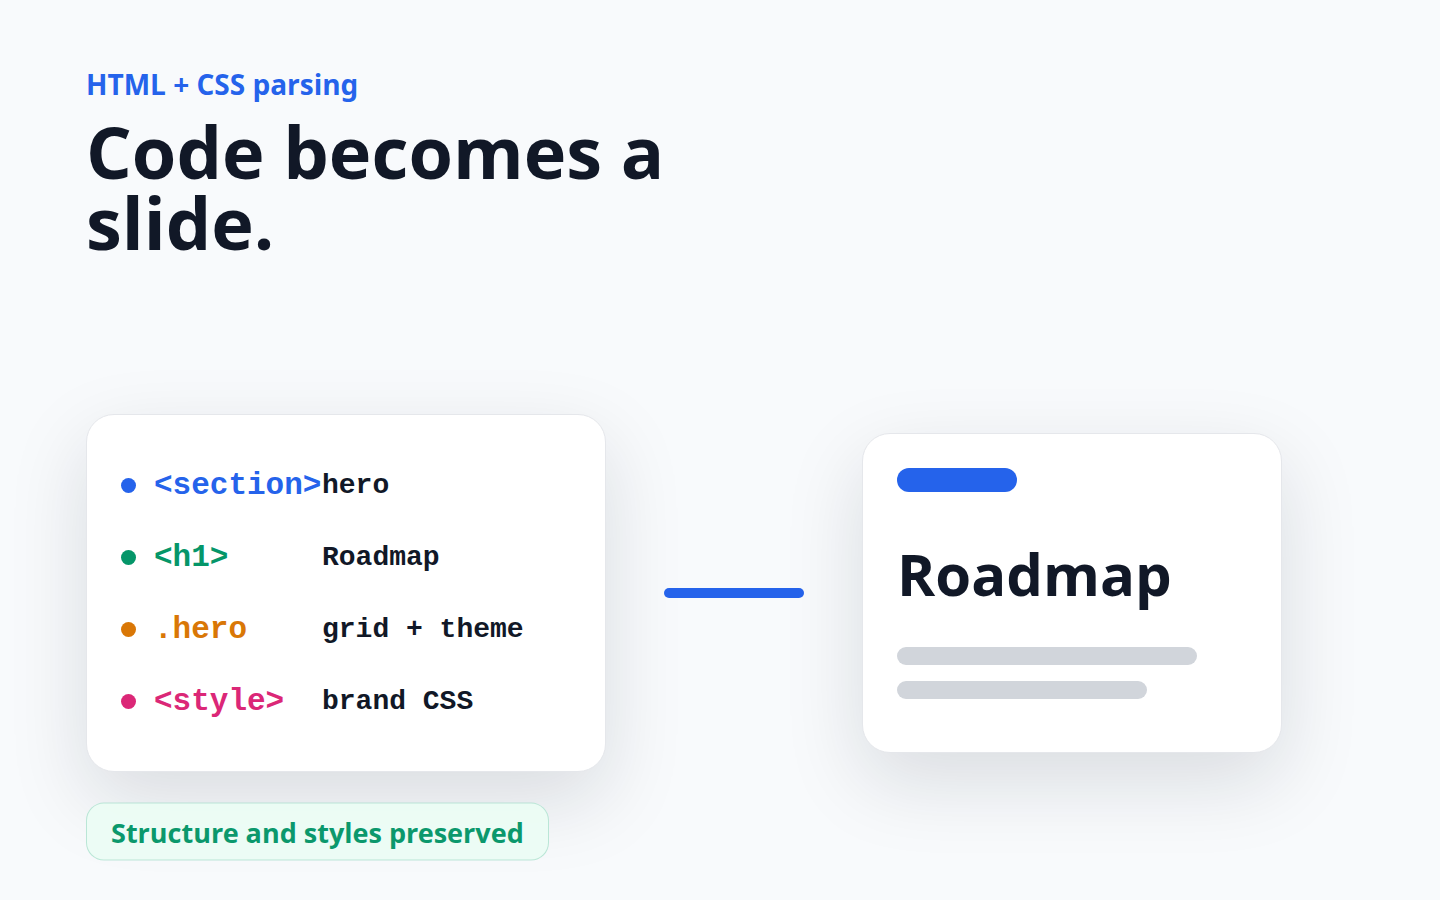
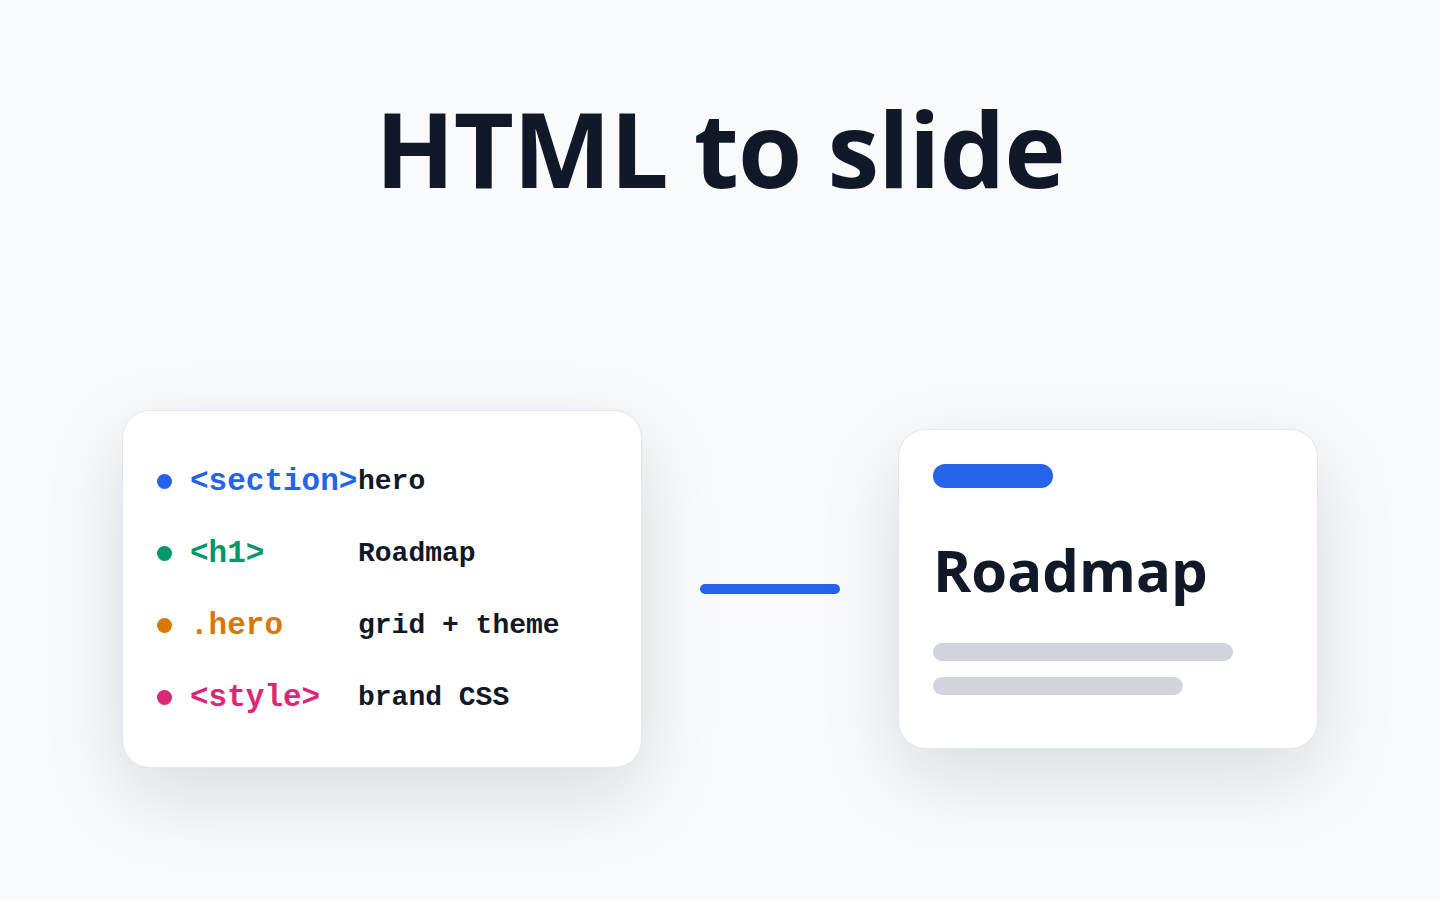
fix landing page

diff --git a/components/WorkflowSwitcher.tsx b/components/WorkflowSwitcher.tsx
@@ -1,0 +1,93 @@
+"use client";
+
+import { useState } from "react";
+
+const STEPS = [
+  {
+    n: 1,
+    label: "Prompt the LLM",
+    description: "Open the prompt, copy it, and paste it into ChatGPT.",
+    video: "/videos/workflow-step-1.mp4",
+    poster: "/videos/workflow-step-1-poster.png",
+    aria:
+      "Open the prompt, copy it, and paste it into ChatGPT to generate HTML.",
+  },
+  {
+    n: 2,
+    label: "HTML into a slide",
+    description: "Paste the HTML reply into Pasteboard to get a live slide.",
+    video: "/videos/workflow-step-2.mp4",
+    poster: "/videos/workflow-step-2-poster.png",
+    aria: "Pasted HTML is parsed into a single editable slide in Pasteboard.",
+  },
+] as const;
+
+export function WorkflowSwitcher() {
+  const [active, setActive] = useState(0);
+  const step = STEPS[active];
+
+  return (
+    <div>
+      <div
+        role="tablist"
+        aria-label="Workflow steps"
+        className="grid gap-3 sm:grid-cols-2"
+      >
+        {STEPS.map((s, i) => {
+          const isActive = i === active;
+          return (
+            <button
+              key={s.n}
+              role="tab"
+              type="button"
+              aria-selected={isActive}
+              onClick={() => setActive(i)}
+              className={`flex items-start gap-4 rounded-lg border px-5 py-4 text-left transition-colors ${
+                isActive
+                  ? "border-zinc-900 bg-zinc-900 text-white"
+                  : "border-zinc-200 bg-white text-zinc-900 hover:border-zinc-300"
+              }`}
+            >
+              <span
+                className={`flex h-9 w-9 flex-none items-center justify-center rounded-full text-sm font-semibold tabular-nums ${
+                  isActive
+                    ? "bg-white text-zinc-900"
+                    : "bg-zinc-100 text-zinc-500"
+                }`}
+              >
+                {s.n}
+              </span>
+              <span className="flex flex-col">
+                <span className="text-sm font-semibold leading-tight">
+                  {s.label}
+                </span>
+                <span
+                  className={`mt-1 text-xs leading-relaxed ${
+                    isActive ? "text-zinc-300" : "text-zinc-500"
+                  }`}
+                >
+                  {s.description}
+                </span>
+              </span>
+            </button>
+          );
+        })}
+      </div>
+      <div className="mt-6 overflow-hidden rounded-lg border border-zinc-200 bg-zinc-50 shadow-[0_24px_80px_rgba(24,24,27,0.10)]">
+        <video
+          key={step.video}
+          aria-label={step.aria}
+          autoPlay
+          loop
+          muted
+          playsInline
+          poster={step.poster}
+          preload="metadata"
+          className="aspect-[16/10] w-full bg-zinc-100 object-cover"
+        >
+          <source src={step.video} type="video/mp4" />
+        </video>
+      </div>
+    </div>
+  );
+}

diff --git a/app/public/[id]/viewer.tsx b/app/public/[id]/viewer.tsx
@@ -1,5 +1,7 @@
 "use client";
 
+import Image from "next/image";
+import Link from "next/link";
 import { useEffect, useRef, useState } from "react";
 import {
   IconChevronLeft,
@@ -68,11 +70,23 @@ export default function PublicViewer({
     >
       {!isFullscreen && (
         <header className="flex items-center justify-between h-12 shrink-0 px-4 bg-white border-b border-zinc-200">
-          <h1 className="text-sm font-medium truncate">{title}</h1>
+          
+                    <Link
+            href="/"
+            aria-label="Go to Pasteboard home"
+            className="inline-flex w-fit items-center"
+          >
+            <Image
+              src="/logo.png"
+              alt="Pasteboard"
+              width={96}
+              height={30}
+              className="h-5 w-auto"
+            />
+          </Link>
+          
           <div className="flex items-center gap-3">
-            <span className="text-xs text-zinc-500 tabular-nums">
-              {slides.length === 0 ? 0 : current + 1} / {slides.length}
-            </span>
+
             <Button
               variant="ghost"
               size="icon-sm"
@@ -129,31 +143,41 @@ export default function PublicViewer({
         </div>
       </main>
 
-      {!isFullscreen && slides.length > 1 && (
+      {!isFullscreen && (
         <footer
-          className="shrink-0 bg-white border-t border-zinc-200 px-4 py-3 flex items-center justify-center gap-3"
+          className="flex shrink-0 items-center justify-between gap-3 border-t border-zinc-200 bg-white px-4 py-3"
           style={{ paddingBottom: "max(0.75rem, env(safe-area-inset-bottom))" }}
         >
-          <Button
-            variant="ghost"
-            size="icon"
-            onClick={() => setCurrent((c) => Math.max(c - 1, 0))}
-            disabled={current === 0}
-            aria-label="Previous slide"
-          >
-            <IconChevronLeft />
-          </Button>
-          <Button
-            variant="ghost"
-            size="icon"
-            onClick={() =>
-              setCurrent((c) => Math.min(c + 1, slides.length - 1))
-            }
-            disabled={current >= slides.length - 1}
-            aria-label="Next slide"
-          >
-            <IconChevronRight />
-          </Button>
+<h1 className="text-sm font-medium truncate">{title}</h1>
+          {slides.length > 1 ? (
+            <div className="flex items-center justify-end gap-3">
+              <Button
+                variant="ghost"
+                size="icon"
+                onClick={() => setCurrent((c) => Math.max(c - 1, 0))}
+                disabled={current === 0}
+                aria-label="Previous slide"
+              >
+                <IconChevronLeft />
+              </Button>
+                          <span className="text-xs text-zinc-500 tabular-nums">
+              {slides.length === 0 ? 0 : current + 1} / {slides.length}
+            </span>
+              <Button
+                variant="ghost"
+                size="icon"
+                onClick={() =>
+                  setCurrent((c) => Math.min(c + 1, slides.length - 1))
+                }
+                disabled={current >= slides.length - 1}
+                aria-label="Next slide"
+              >
+                <IconChevronRight />
+              </Button>
+            </div>
+          ) : (
+            <div />
+          )}
         </footer>
       )}
 

diff --git a/app/page.tsx b/app/page.tsx
@@ -7,6 +7,7 @@ import {
   AccordionTrigger,
 } from "@/components/ui/accordion";
 import { Button } from "@/components/ui/button";
+import { WorkflowSwitcher } from "@/components/WorkflowSwitcher";
 
 export default function Home() {
   const features = [
@@ -20,7 +21,7 @@ export default function Home() {
     },
     {
       k: "Publish",
-      title: "Share-ready decks",
+      title: "Share-ready presentations",
       detail:
         "Share a public presentation link your team or audience can open instantly.",
       video: "/videos/feature-share.mp4",
@@ -42,11 +43,17 @@ export default function Home() {
             loading="eager"
           />
           <nav className="hidden items-center gap-8 text-sm text-zinc-600 md:flex">
-            <a className="transition-colors hover:text-zinc-900" href="#features">
-              Features
-            </a>
-            <a className="transition-colors hover:text-zinc-900" href="#workflow">
+            <a
+              className="transition-colors hover:text-zinc-900"
+              href="#workflow"
+            >
               Workflow
+            </a>
+            <a
+              className="transition-colors hover:text-zinc-900"
+              href="#features"
+            >
+              Features
             </a>
             <a className="transition-colors hover:text-zinc-900" href="#faq">
               FAQ
@@ -81,19 +88,14 @@ export default function Home() {
               See how it works →
             </a>
           </div>
-          <div className="mt-16 overflow-hidden rounded-lg border border-zinc-200 bg-zinc-50 shadow-[0_24px_80px_rgba(24,24,27,0.10)]">
-            <video
-              aria-label="Pasteboard turns pasted HTML code into editable slides."
-              autoPlay
-              muted
-              playsInline
-              poster="/videos/landing-page-demo-poster.png"
-              preload="metadata"
-              className="aspect-[16/10] w-full bg-zinc-100 object-cover"
-            >
-              <source src="/videos/landing-page-demo.mp4" type="video/mp4" />
-            </video>
-          </div>
+          <section id="workflow" className="border-t border-zinc-100 py-20">
+            <h2 className="text-xs font-semibold uppercase tracking-[0.22em] text-zinc-400">
+              Work Flow
+            </h2>
+            <div className="mt-10">
+              <WorkflowSwitcher />
+            </div>
+          </section>
         </section>
 
         <section id="features" className="border-t border-zinc-100 py-20">
@@ -132,31 +134,6 @@ export default function Home() {
           </div>
         </section>
 
-        <section id="workflow" className="border-t border-zinc-100 py-20">
-          <h2 className="text-xs font-semibold uppercase tracking-[0.22em] text-zinc-400">
-            How it works
-          </h2>
-          <ol className="mt-10 grid gap-10 sm:grid-cols-2 md:grid-cols-4">
-            {[
-              { n: "01", k: "Paste", t: "Drop raw HTML or paste an entire page." },
-              { n: "02", k: "Refine", t: "Reorder, duplicate, or edit inline." },
-              { n: "03", k: "Share", t: "Publish to a single, public link." },
-            ].map((s) => (
-              <li key={s.n} className="flex flex-col">
-                <span className="text-xs font-medium tabular-nums text-zinc-400">
-                  {s.n}
-                </span>
-                <span className="mt-3 text-base font-semibold text-primary">
-                  {s.k}
-                </span>
-                <p className="mt-2 text-sm leading-relaxed text-zinc-600">
-                  {s.t}
-                </p>
-              </li>
-            ))}
-          </ol>
-        </section>
-
         <section id="faq" className="border-t border-zinc-100 py-20">
           <h2 className="text-xs font-semibold uppercase tracking-[0.22em] text-zinc-400">
             FAQ
@@ -170,6 +147,10 @@ export default function Home() {
               {
                 q: "Can I share decks?",
                 a: "Every deck gets a public link your audience can open instantly.",
+              },
+              {
+                q: "What is a deck ?",
+                a: "An HTML slide deck is a presentation created using web technologies (HTML, CSS, and JavaScript) instead of traditional software like PowerPoint or Google Slides. It runs directly in a web browser and offers highly customizable, responsive, and interactive layouts."
               },
               {
                 q : "I don't know coding. Is this for me?",